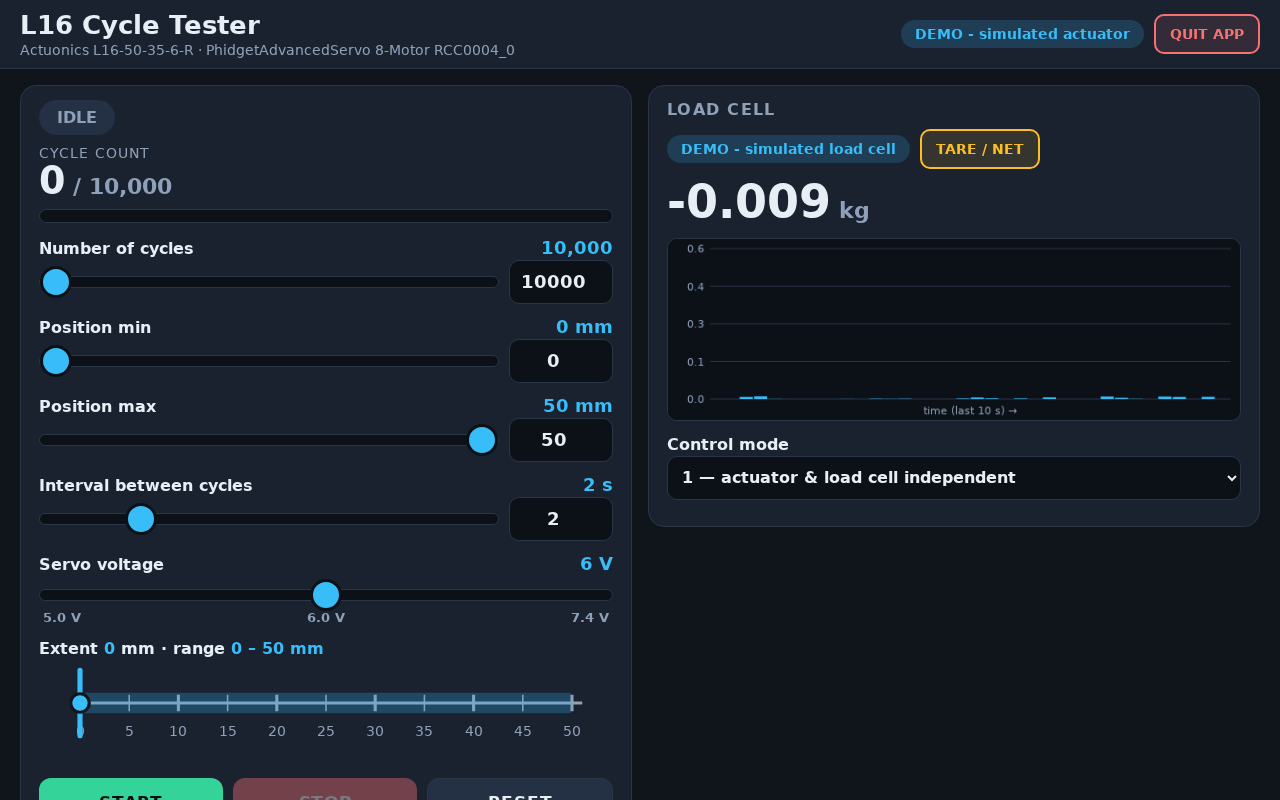
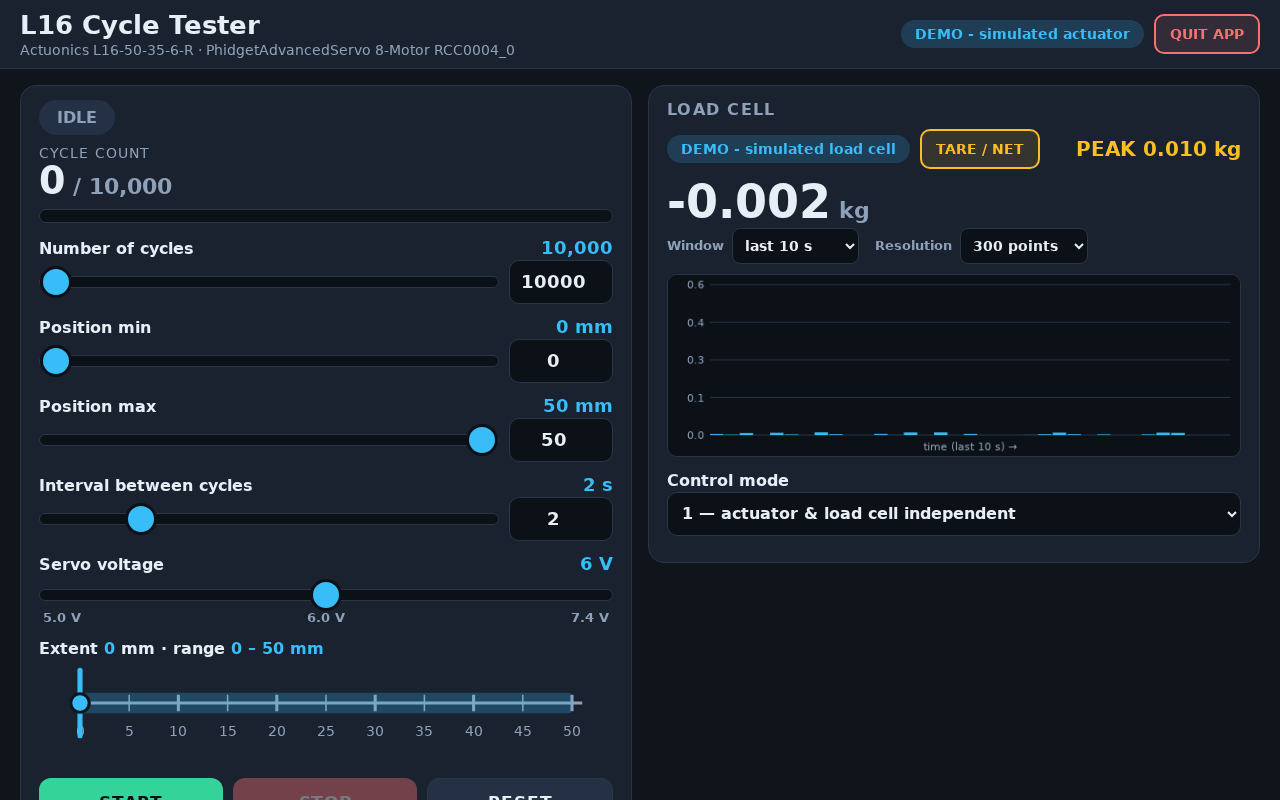
Rename mode options 1-4; add PEAK readout; chart window (10s-30min) + resolution selectors with server-side decimation; constant-load mode: max extent greyed out (app-capped at 50mm), 1mm-step closed-loop extension to the load goal, engine-tracked cycle peak (no sampling race)

diff --git a/static/index.html b/static/index.html
@@ -88,16 +88,35 @@
     <div class="load-top">
       <div id="load-pill" class="pill">connecting&hellip;</div>
       <button type="button" id="btn-tare" class="reconnect-btn">TARE / NET</button>
+      <div class="load-peak">PEAK <span id="load-peak">0.000</span> kg</div>
     </div>
     <div class="load-value"><span id="load-kg">0.000</span><span class="unit"> kg</span></div>
+    <div class="chart-controls">
+      <label>Window
+        <select id="chart-win">
+          <option value="10" selected>last 10 s</option>
+          <option value="60">last 1 min</option>
+          <option value="600">last 10 min</option>
+          <option value="1800">last 30 min</option>
+        </select>
+      </label>
+      <label>Resolution
+        <select id="chart-pts">
+          <option value="100">100 points</option>
+          <option value="300" selected>300 points</option>
+          <option value="600">600 points</option>
+          <option value="1200">max (1200)</option>
+        </select>
+      </label>
+    </div>
     <canvas id="load-chart" width="600" height="190"></canvas>
     <div class="slider-row">
       <label for="mode">Control mode</label>
       <select id="mode" class="mode-select">
         <option value="1">1 — actuator &amp; load cell independent</option>
-        <option value="2a">2A — failure stop on &gt;30% load drop from peak</option>
-        <option value="2b">2B — constant load (ramp in 0.2 kg steps to goal)</option>
-        <option value="3">3 — constant path, log load decline</option>
+        <option value="2a">2 — failure stop on load drop vs previous cycle peak</option>
+        <option value="2b">3 — constant load (extend in 1 mm steps to goal)</option>
+        <option value="3">4 — constant path, log load decline</option>
       </select>
     </div>
     <div class="slider-row" id="goal-row" hidden>

diff --git a/static/app.js b/static/app.js
@@ -5,6 +5,8 @@ let state = null;
 let limits = null;
 let gaugeBuilt = false;
 let limitsApplied = false;
+let chartWin = 10;
+let chartPts = 300;
 
 const fmtInt = (n) => Math.round(n).toLocaleString("en-US");
 
@@ -40,7 +42,7 @@ async function api(path, body) {
 
 async function poll() {
   try {
-    const r = await api("/api/state");
+    const r = await api("/api/state?win=" + chartWin + "&pts=" + chartPts);
     if (r.ok) {
       state = r.state;
       limits = state.limits;
@@ -195,6 +197,8 @@ function wireControls() {
     const r = await api("/api/tare", {});
     if (!r.ok) showError(r.error);
   });
+  $("chart-win").addEventListener("change", () => { chartWin = parseInt($("chart-win").value, 10); });
+  $("chart-pts").addEventListener("change", () => { chartPts = parseInt($("chart-pts").value, 10); });
   $("btn-start").addEventListener("click", async () => {
     const r = await api("/api/start", {});
     if (!r.ok) showError(r.error);
@@ -365,7 +369,12 @@ function render() {
     $("faildrop-num").disabled = true;
   }
 
+  const maxLocked = c.mode === "2b";
+  $("max").disabled = running || maxLocked;
+  $("max-num").disabled = running || maxLocked;
+
   const load = s.load;
+  $("load-peak").textContent = (load.peak_kg ?? 0).toFixed(3);
   const loadPill = $("load-pill");
   if (s.demo) {
     loadPill.textContent = "DEMO - simulated load cell";
@@ -436,7 +445,8 @@ function drawChart(history, goalKg) {
     ctx.fillText(v.toFixed(1), padL - 6, y + 4);
   }
   ctx.textAlign = "center";
-  ctx.fillText("time (last 10 s) →", padL + plotW / 2, H - 6);
+  const wLabel = chartWin >= 60 ? "last " + chartWin / 60 + " min" : "last " + chartWin + " s";
+  ctx.fillText("time (" + wLabel + ") →", padL + plotW / 2, H - 6);
   if (history.length < 2) {
     ctx.fillStyle = "#8fa1b8";
     ctx.textAlign = "center";

diff --git a/static/style.css b/static/style.css
@@ -117,6 +117,21 @@ main {
 
 .load-top { display: flex; gap: 10px; align-items: center; margin-bottom: 8px; }
 
+.load-peak { margin-left: auto; font-size: 20px; font-weight: 800; color: var(--warn); font-variant-numeric: tabular-nums; }
+
+.chart-controls { display: flex; gap: 16px; align-items: center; margin-bottom: 6px; }
+.chart-controls label { display: flex; gap: 8px; align-items: center; color: var(--muted); font-size: 13px; font-weight: 600; }
+.chart-controls select {
+  min-height: 36px;
+  font-size: 14px;
+  font-weight: 600;
+  background: #0c1118;
+  color: var(--text);
+  border: 1px solid var(--panel-edge);
+  border-radius: 8px;
+  padding: 0 8px;
+}
+
 .load-value { font-size: 46px; font-weight: 800; font-variant-numeric: tabular-nums; line-height: 1.1; }
 .load-value .unit { font-size: 22px; color: var(--muted); font-weight: 600; }
 

diff --git a/engine.py b/engine.py
@@ -52,6 +52,7 @@ class CycleEngine:
         self._cycle_peak = 0.0
         self._prev_peak = None
         self._fail_prev_peak = None
+        self._run_peak = 0.0
 
     def snapshot(self):
         with self._lock:
@@ -63,6 +64,7 @@ class CycleEngine:
                 "config": dict(self.config),
                 "position_mm": self.actuator.position_mm,
                 "voltage": self.actuator.get_voltage(),
+                "run_peak_kg": self._run_peak,
             }
 
     def set_config(self, cfg):
@@ -139,6 +141,7 @@ class CycleEngine:
             self._cycle_peak = 0.0
             self._prev_peak = None
             self._fail_prev_peak = None
+            self._run_peak = 0.0
             self._fail_evt.clear()
             self.status = STATUS_RUNNING
             self._stop_evt.clear()
@@ -187,6 +190,8 @@ class CycleEngine:
             if load is not None:
                 if load > self._cycle_peak:
                     self._cycle_peak = load
+                if load > self._run_peak:
+                    self._run_peak = load
                 if self.recorder is not None:
                     with self._lock:
                         current = self.count
@@ -217,39 +222,23 @@ class CycleEngine:
             time.sleep(min(0.05, max(0.0, deadline - time.monotonic())))
         return not self._stop_evt.is_set() and not self._fail_evt.is_set()
 
-    def _extend_until_load(self, target_load, cfg):
+    def _extend_until_load(self, target_load, cfg, cap_mm=None):
+        cap = cap_mm if cap_mm is not None else cfg["max_mm"]
         pos = max(cfg["min_mm"], self.actuator.position_mm)
         while (
-            pos < cfg["max_mm"]
+            pos < cap
             and not self._stop_evt.is_set()
             and not self._fail_evt.is_set()
         ):
-            pos = min(cfg["max_mm"], pos + 1.0)
+            pos = min(cap, pos + 1.0)
             self.actuator.move_to_mm(pos, timeout_s=30, cancel_evt=self._stop_evt)
             load = self._load()
-            if load is not None and load >= target_load:
-                break
+            if load is not None:
+                if load > self._cycle_peak:
+                    self._cycle_peak = load
+                if load >= target_load:
+                    break
         return pos
-
-    def _ramp_to_goal(self, cfg):
-        goal = cfg["load_goal_kg"]
-        step = GOAL_STEP_KG
-        while (
-            step <= goal + 1e-9
-            and not self._stop_evt.is_set()
-            and not self._fail_evt.is_set()
-        ):
-            self._extend_until_load(step, cfg)
-            if self.recorder is not None:
-                with self._lock:
-                    current = self.count
-                self.recorder.event(
-                    f"ramp: load >= {step:.1f} kg",
-                    current,
-                    round(self.actuator.position_mm, 3),
-                    round(self._load() or 0.0, 4),
-                )
-            step += GOAL_STEP_KG
 
     def _run(self):
         done = False
@@ -259,8 +248,6 @@ class CycleEngine:
             if can_move:
                 self.actuator.set_voltage(cfg["voltage"])
                 self.actuator.move_to_mm(cfg["min_mm"], timeout_s=120, cancel_evt=self._stop_evt)
-            if cfg["mode"] == "2b" and can_move:
-                self._ramp_to_goal(cfg)
             while (
                 not self._stop_evt.is_set()
                 and not self._fail_evt.is_set()
@@ -268,12 +255,15 @@ class CycleEngine:
                 self._cycle_peak = 0.0
                 if can_move:
                     if cfg["mode"] == "2b":
-                        self._extend_until_load(cfg["load_goal_kg"], cfg)
+                        self._extend_until_load(cfg["load_goal_kg"], cfg, cap_mm=STROKE_MM)
                     else:
                         if not self.actuator.move_to_mm(cfg["max_mm"], timeout_s=120, cancel_evt=self._stop_evt):
                             if self._stop_evt.is_set() or self._fail_evt.is_set():
                                 break
                             raise RuntimeError("actuator did not reach max extent in time")
+                        load = self._load()
+                        if load is not None and load > self._cycle_peak:
+                            self._cycle_peak = load
                 if self._stop_evt.is_set() or self._fail_evt.is_set():
                     break
                 self._check_cycle_peak()

diff --git a/server.py b/server.py
@@ -4,6 +4,7 @@ import os
 import sys
 import threading
 import time
+import urllib.parse
 import webbrowser
 from datetime import datetime
 from http.server import BaseHTTPRequestHandler, ThreadingHTTPServer
@@ -142,7 +143,7 @@ class App:
         finally:
             self._reconnect_lock.release()
 
-    def state(self):
+    def state(self, win_s=10.0, max_points=300):
         snap = self.engine.snapshot()
         snap["demo"] = self.demo
         snap["device"] = {
@@ -161,12 +162,16 @@ class App:
             "fail_drop_pct": [FAIL_DROP_MIN_PCT, FAIL_DROP_MAX_PCT],
         }
         lc = self.loadcell
+        hist = lc.history_window(win_s, max_points) if lc.connected else []
+        hist_peak = max((v for _, v in hist), default=0.0)
+        kg_now = round(lc.latest_kg(), 3) if lc.connected else None
         snap["load"] = {
             "connected": lc.connected,
             "error": lc.error,
             "name": lc.name,
-            "kg": round(lc.latest_kg(), 3) if lc.connected else None,
-            "history": lc.history(300) if lc.connected else [],
+            "kg": kg_now,
+            "peak_kg": round(max(snap.get("run_peak_kg", 0.0), hist_peak, kg_now or 0.0), 3),
+            "history": hist,
         }
         snap["run_file"] = self.recorder.file_name if self.recorder is not None and self.recorder.active else None
         return snap
@@ -207,9 +212,18 @@ def make_handler(app):
             self.wfile.write(body)
 
         def do_GET(self):
-            path = self.path.split("?")[0]
+            path, _, query = self.path.partition("?")
             if path == "/api/state":
-                self._json(200, {"ok": True, "state": app.state()})
+                params = urllib.parse.parse_qs(query)
+                try:
+                    win = min(max(float(params.get("win", ["10"])[0]), 1.0), 1800.0)
+                except ValueError:
+                    win = 10.0
+                try:
+                    pts = min(max(int(params.get("pts", ["300"])[0]), 20), 1200)
+                except ValueError:
+                    pts = 300
+                self._json(200, {"ok": True, "state": app.state(win, pts)})
             else:
                 self._static(path)
 

diff --git a/loadcell.py b/loadcell.py
@@ -6,7 +6,9 @@ from collections import deque
 READ_CMD = b"!001:SYS?\r"
 BAUD = 115200
 POLL_HZ = 20.0
-HIST_MAX = 600
+HIST_MAX = 36000
+WINDOW_MAX_S = 1800.0
+POINTS_MAX = 1200
 
 
 class LoadCellBase:
@@ -24,6 +26,9 @@ class LoadCellBase:
         raise NotImplementedError
 
     def history(self, max_points=300):
+        raise NotImplementedError
+
+    def history_window(self, window_s=10.0, max_points=300):
         raise NotImplementedError
 
     def tare(self):
@@ -67,8 +72,13 @@ class SimulatedLoadCell(LoadCellBase):
             return self._gross - self._tare
 
     def history(self, max_points=300):
+        return self.history_window(1800.0, max_points)
+
+    def history_window(self, window_s=10.0, max_points=300):
         with self._lock:
-            return [[t, round(v, 4)] for t, v in list(self._hist)[-max_points:]]
+            now = time.monotonic()
+            items = [(t, v) for t, v in self._hist if t >= now - min(window_s, WINDOW_MAX_S)]
+        return _decimate(items, max_points)
 
     def tare(self):
         with self._lock:
@@ -159,13 +169,29 @@ class DscUsbLoadCell(LoadCellBase):
             return self._gross - self._tare
 
     def history(self, max_points=300):
+        return self.history_window(1800.0, max_points)
+
+    def history_window(self, window_s=10.0, max_points=300):
         with self._lock:
-            return [[t, round(v, 4)] for t, v in list(self._hist)[-max_points:]]
+            now = time.monotonic()
+            items = [(t, v) for t, v in self._hist if t >= now - min(window_s, WINDOW_MAX_S)]
+        return _decimate(items, max_points)
 
     def tare(self):
         with self._lock:
             self._tare = self._gross
         return True
+
+
+def _decimate(items, max_points):
+    max_points = max(2, min(int(max_points), POINTS_MAX))
+    if len(items) > max_points:
+        step = -(-len(items) // max_points)
+        picked = items[::step]
+        if picked and picked[-1] is not items[-1]:
+            picked.append(items[-1])
+        items = picked
+    return [[t, round(v, 4)] for t, v in items]
 
 
 def make_loadcell(demo, port=None, position_provider=None):

diff --git a/README.md b/README.md
@@ -117,22 +117,32 @@ protocol directly over the COM port — read command `!001:SYS?<CR>` returns the
 main output (kg) as `123.456<CR>`; NAK is `?<CR>`. The port is auto-detected, or
 pass `--loadcell-port COMx`.
 
-Control modes:
+Control modes (options 1–4):
 
 - **1 — independent**: actuator cycles between position min/max as before; the
-  load cell is only displayed/logged.
-- **2A — failure mode**: each cycle's peak load is compared with the previous
+  load cell is only displayed/logged. Works with **only one device connected**:
+  actuator without load cell cycles normally; load cell without actuator runs
+  as a monitor-only logging session (one "cycle" per interval). Modes 2–4
+  require the load cell and refuse to start with a clear message otherwise.
+- **2 — failure mode**: each cycle's peak load is compared with the previous
   cycle's peak; if it drops by more than the **user-defined failure drop
   (10–50%, default 30%)**, the actuator stops, the cycle count and all data are
   written to `Failure.log`, and the run file is saved. (The load naturally falls
   to ~0 while retracting between cycles — that is not a failure; only the
   per-cycle peak-to-peak drop is evaluated.)
-- **2B — constant load**: set a **load goal 0.1–6.0 kg** (0.2 kg steps). The
-  actuator extends from the start point in 0.2 kg load steps up to the goal,
-  then keeps cycling, increasing the extension as needed to hold the goal as the
-  material weakens. All samples are logged. Same failure stop as 2A.
-- **3 — constant path**: fixed min/max extent; the load decline over time is
+- **3 — constant load**: set a **load goal 0.1–6.0 kg**. Position **min** is the
+  user-set start point; position **max is greyed out** — the app decides it
+  (capped at the 50 mm stroke). On START the actuator extends in **1 mm
+  increments**, reading the actual load after each step, until the measured
+  load reaches the goal; then it keeps cycling, increasing the extension
+  automatically as the material weakens to hold the goal. All samples are
+  logged. Same failure stop as mode 2.
+- **4 — constant path**: fixed min/max extent; the load decline over time is
   logged. Same failure stop.
+
+The load panel also shows a **PEAK** readout (far right) and the chart's time
+**window** (last 10 s / 1 min / 10 min / 30 min) and **resolution** (max points)
+are selectable; the server decimates the samples accordingly.
 
 Logging: each run writes `cyclelog_<timestamp>.xlsx` (opens in Excel; columns
 timestamp, elapsed_s, cycle, position_mm, load_kg, event; samples ~5 Hz plus
